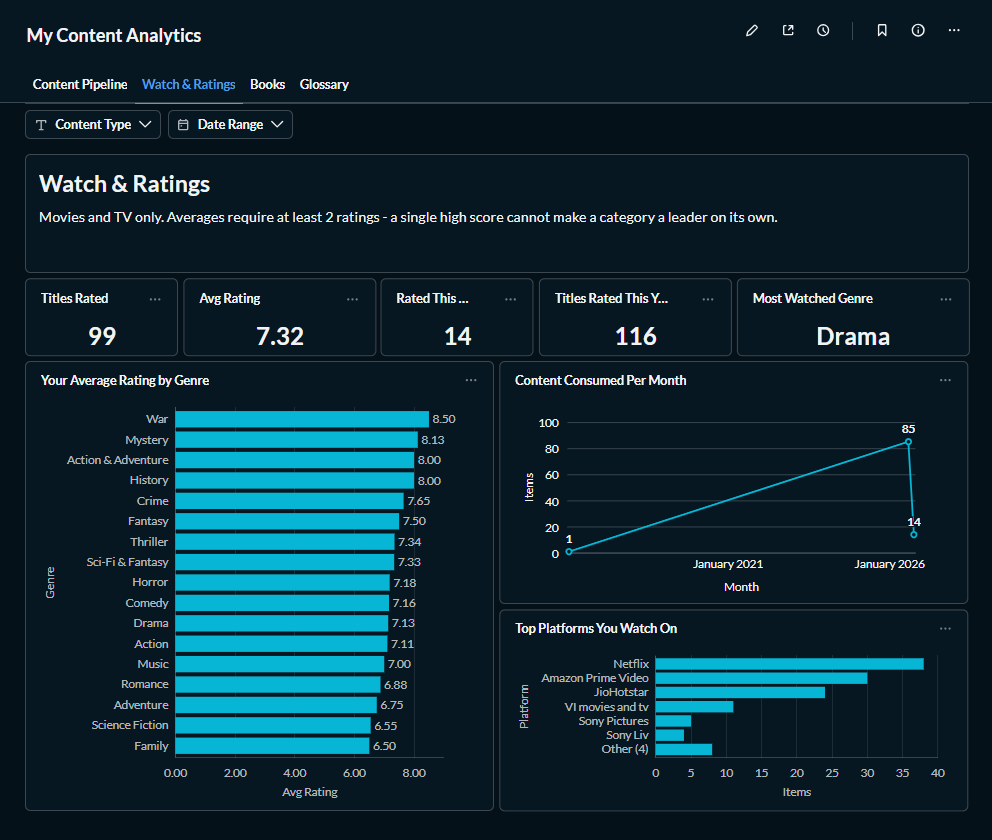
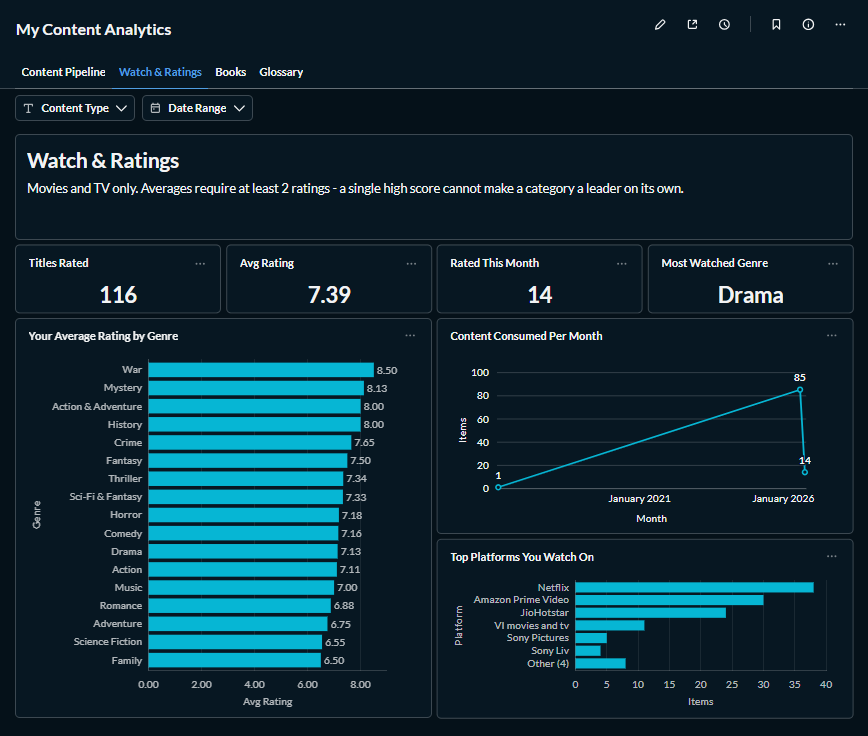
Show web app times in local timezone
Timestamps are stored in UTC (Postgres and the containers run in UTC),
but the health and picks pages displayed them unconverted, so a run
finishing at 10:32 PM IST showed as 5:02 PM. Add a `local` Jinja filter
that converts to APP_TIMEZONE (default Asia/Kolkata) for display only;
stored data and staleness checks stay in UTC.

diff --git a/flask/templates/index.html b/flask/templates/index.html
@@ -763,7 +763,7 @@
             </div>
             <div class="sidebar-footer">
                 {% if taste and taste.generated_at %}
-                Profile updated {{ taste.generated_at.strftime("%Y-%m-%d %H:%M") }}
+                Profile updated {{ taste.generated_at|local("%Y-%m-%d %H:%M %Z") }}
                 {% endif %}
             </div>
         </aside>
@@ -772,7 +772,7 @@
             <header class="page-header">
                 <div>
                     <h1>Tonight</h1>
-                    <p class="subtitle">{% if taste %}{{ taste.total_rated }} titles rated{% endif %}{% if picks_generated_at %} &middot; picks from {{ picks_generated_at.strftime("%b %d") }}{% endif %}</p>
+                    <p class="subtitle">{% if taste %}{{ taste.total_rated }} titles rated{% endif %}{% if picks_generated_at %} &middot; picks from {{ picks_generated_at|local("%b %d") }}{% endif %}</p>
                 </div>
                 {% if picks %}
                 <div class="header-filters">

diff --git a/flask/templates/health.html b/flask/templates/health.html
@@ -140,7 +140,7 @@
         <div class="health-row">
             <span class="health-row-label">Last updated</span>
             <span class="health-row-value">
-                {% if last_run %}{{ last_run.strftime("%b %d %Y %I:%M%p").lower() }}{% else %}never{% endif %}
+                {% if last_run %}{{ last_run|local }}{% else %}never{% endif %}
             </span>
         </div>
         <div class="health-row">
@@ -152,7 +152,7 @@
         <div class="health-row">
             <span class="health-row-label">Last failed run</span>
             <span class="health-row-value {% if failure_is_current %}is-warn{% endif %}">
-                {% if last_failure %}{{ last_failure[0] }} · {{ last_failure[1].strftime("%b %d %Y %I:%M%p").lower() }}{% else %}none{% endif %}
+                {% if last_failure %}{{ last_failure[0] }} · {{ last_failure[1]|local }}{% else %}none{% endif %}
             </span>
         </div>
         <div class="health-row">

diff --git a/flask/app.py b/flask/app.py
@@ -1,13 +1,27 @@
 import os
 import time
 from contextlib import contextmanager
-from datetime import datetime, timedelta
+from datetime import datetime, timedelta, timezone
+from zoneinfo import ZoneInfo
 import psycopg2
 from flask import Flask, render_template, request, jsonify, redirect, url_for
 
 from agent import answer_question
 
 app = Flask(__name__)
+
+# Postgres and the containers run in UTC, so every stored timestamp is UTC.
+# Comparisons stay in UTC; this filter only changes how times are displayed.
+DISPLAY_TZ = ZoneInfo(os.getenv("APP_TIMEZONE", "Asia/Kolkata"))
+
+@app.template_filter("local")
+def local_time(value, fmt="%b %d %Y %I:%M%p %Z"):
+    """Render a naive UTC datetime in the display timezone, e.g. 'Oct 06 2026 10:32PM IST'."""
+    if value is None:
+        return ""
+    if value.tzinfo is None:
+        value = value.replace(tzinfo=timezone.utc)
+    return value.astimezone(DISPLAY_TZ).strftime(fmt)
 
 LANGUAGE_NAMES = {"en": "English", "hi": "Hindi", "mr": "Marathi"}
 

diff --git a/README.md b/README.md
@@ -164,6 +164,7 @@ Set these in `.env`; `.env.example` lists every variable.
 | `ASK_READONLY_PASSWORD` | Password for the read-only database role used by `/ask`. Any value works. |
 | `ASK_DATABASE_URL` | Connection string for that role. Replace `your_ask_readonly_password` in it with the value above. |
 | `OLLAMA_BASE_URL`, `OLLAMA_PICKS_MODEL`, `OLLAMA_ASK_MODEL` | The defaults work with Docker Compose. |
+| `APP_TIMEZONE` | Timezone for times shown in the web app (default `Asia/Kolkata`). Data is stored in UTC. |
 | `ALERT_EMAIL_TO`, `SMTP_*` (optional) | Email for failed-run alerts. Gmail needs an App Password. Leave blank to turn email off. |
 
 ### Recommendation settings
